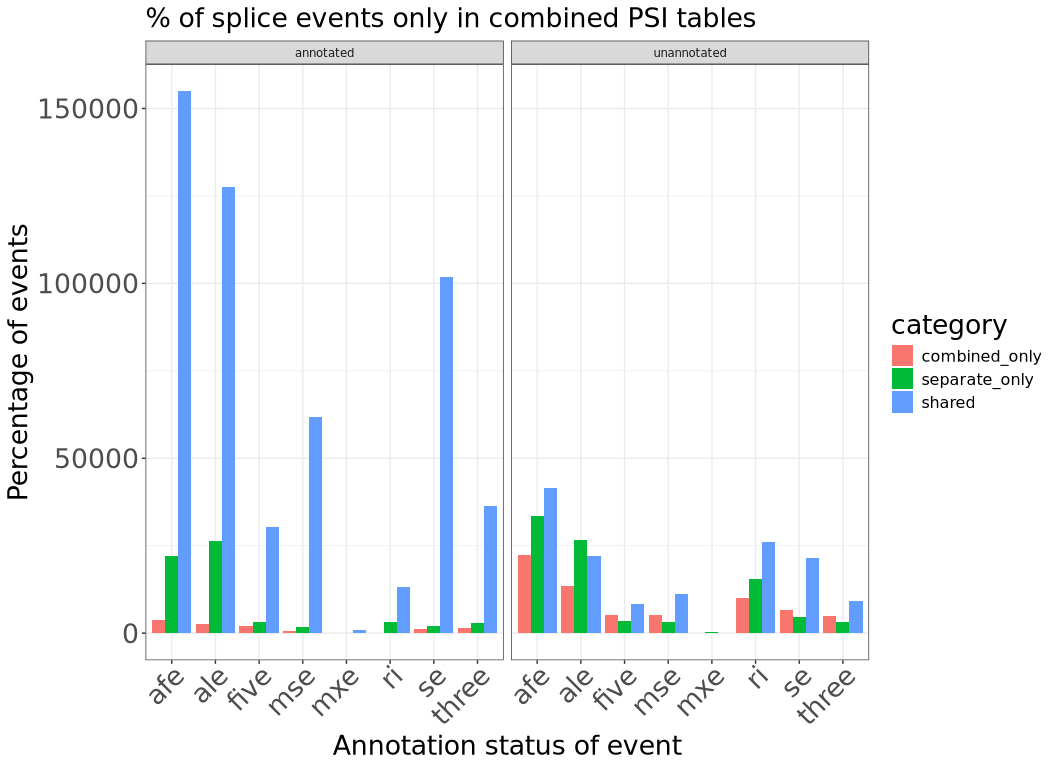
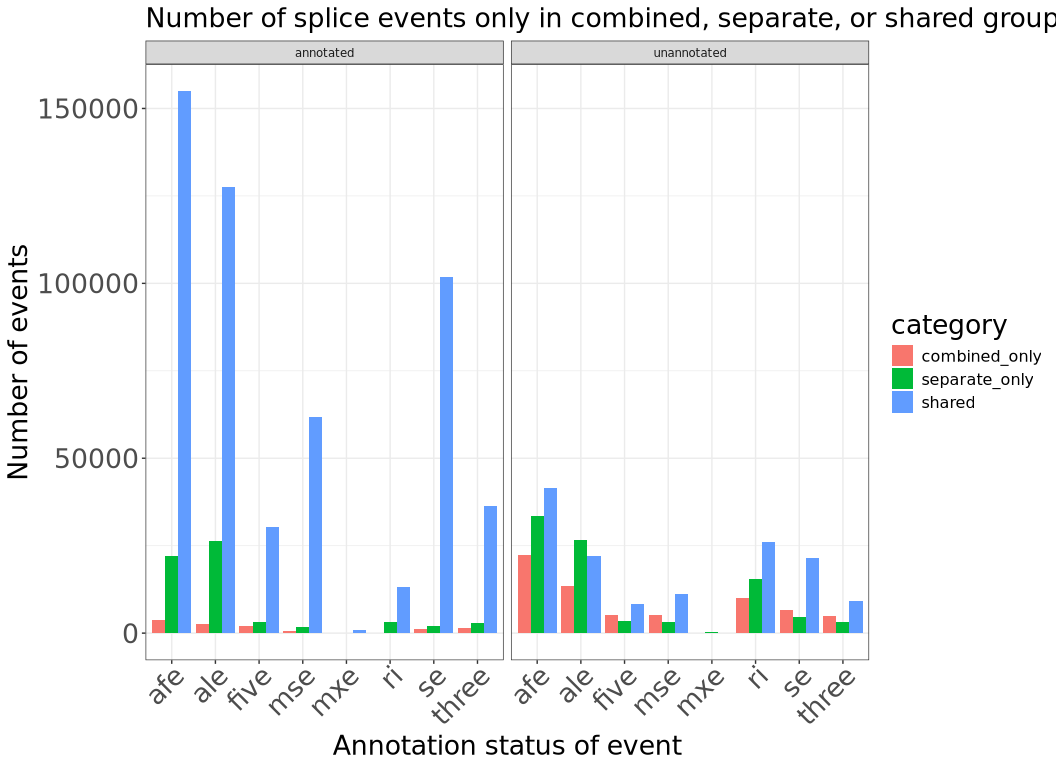
update plots and markdown

Changed region(s): [[0.125, 0.0, 1.0, 0.0625], [0.0, 0.2812, 0.0312, 0.6562]]

diff --git a/exploration/merging-psi-tables/target_pilot/compare_merged_psi_table.md b/exploration/merging-psi-tables/target_pilot/compare_merged_psi_table.md
@@ -1,6 +1,6 @@
 # Compare merged PSI table from TARGET pilot samples
 Cindy Liang (celiang@ucsc.edu)
-2026-04-14
+2026-04-15
 
 As part of our pipeline, we plan to merge Shiba tables created for
 individual samples to obtain a final PSI table of all samples. Before
@@ -208,7 +208,7 @@ ggplot(long_all_events_summary, aes(fill = category, x = event_type, y = percent
   geom_bar(position = "stack", stat = "identity") +
   plot_theme +
   labs(
-    title = "% of splice events only in combined PSI tables",
+    title = "% of splice events in combined, separate, or shared groups",
     x = "Annotation status of event",
     y = "Percentage of events"
   ) +
@@ -234,9 +234,9 @@ ggplot(long_all_events_summary, aes(fill = category, x = event_type, y = count))
   geom_bar(position = "dodge", stat = "identity") +
   plot_theme +
   labs(
-    title = "% of splice events only in combined PSI tables",
+    title = "Number of splice events only in combined, separate, or shared groups",
     x = "Annotation status of event",
-    y = "Percentage of events"
+    y = "Number of events"
   ) +
   facet_wrap(vars(label)) +
   scale_x_discrete(guide = guide_axis(angle = 45)) +
@@ -273,7 +273,7 @@ long_all_events <- all_events |>
     values_to = "PSI",
     names_pattern = "(.*)_(combined|separate)"
   ) |>
-  # drop NA values
+  # drop NA values, including those coded as negative PSI
   dplyr::filter(PSI >= 0)
 
 # pivot wider for correlation calculations
@@ -311,7 +311,7 @@ correlation_df
 | mxe        |         1 |          1 |            1 |
 | ri         |         1 |          1 |            1 |
 
-Check whether events are equal
+Check whether shared events have the same PSI values
 
 ``` r
 # omit NAs 
